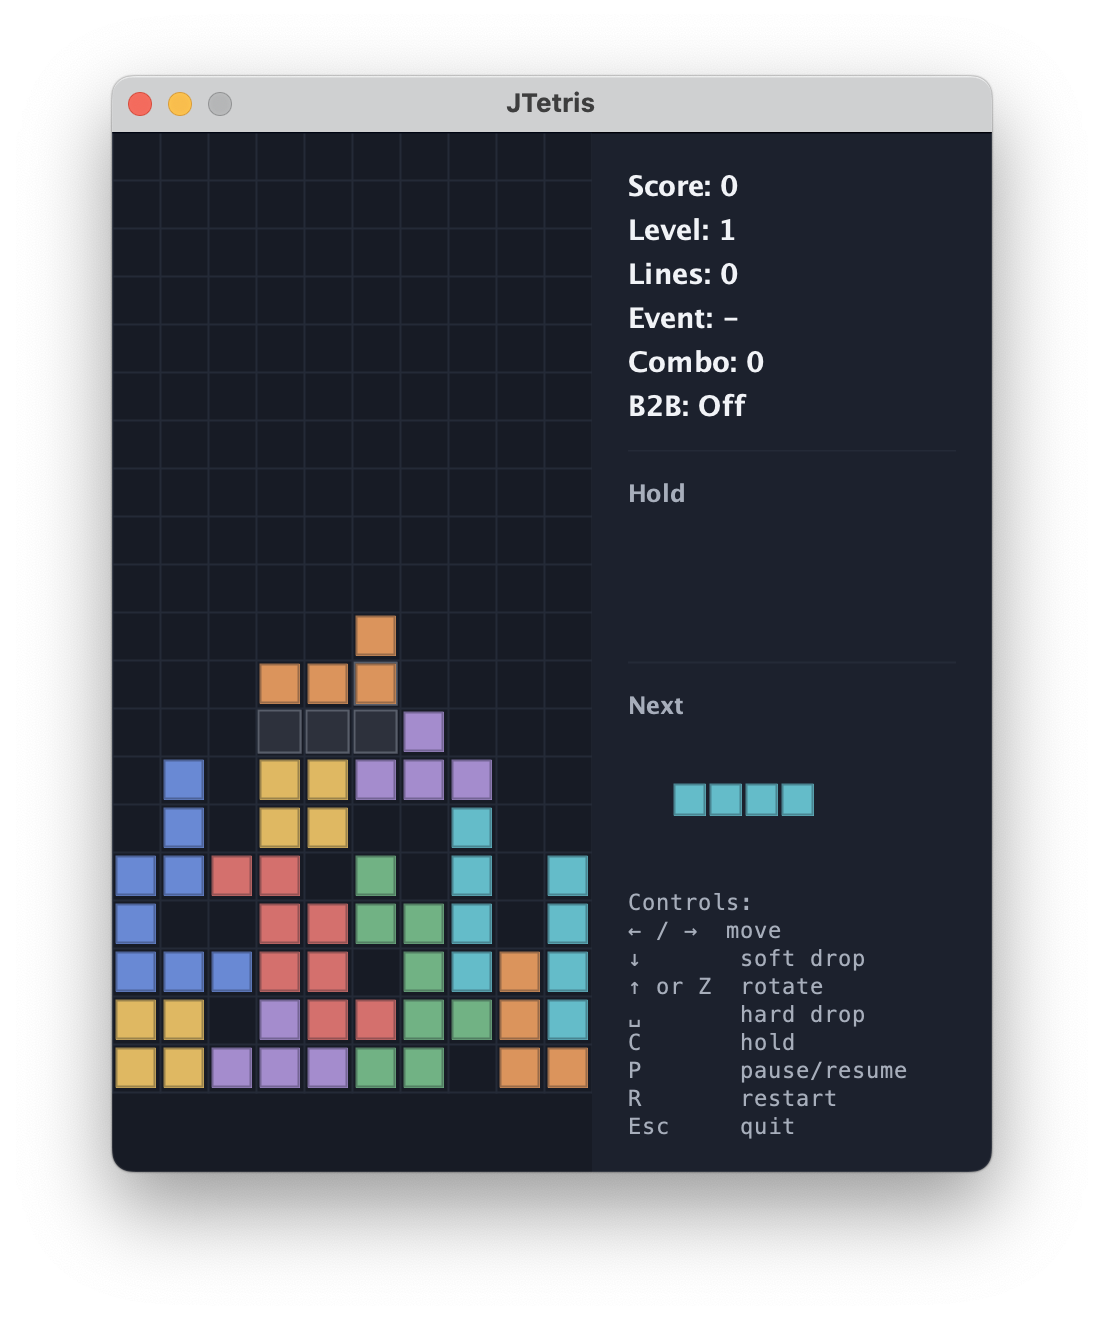
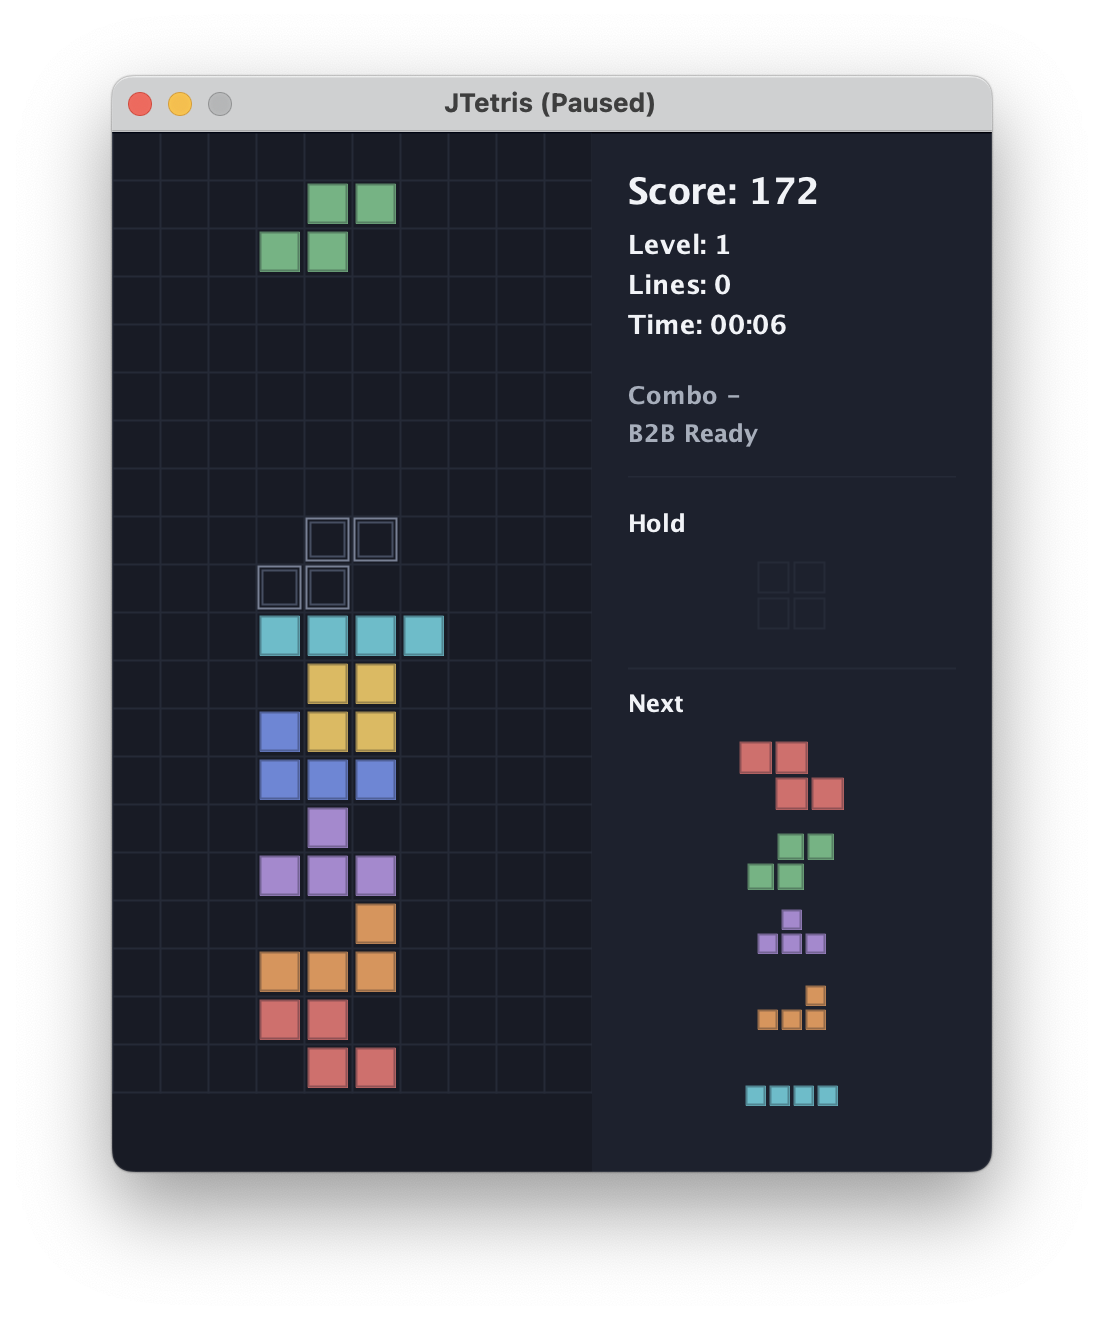
docs: refresh 1.1.0 screenshots

diff --git a/openspec/changes/release-1-1-0-ci-build/tasks.md b/openspec/changes/release-1-1-0-ci-build/tasks.md
@@ -7,7 +7,7 @@
 - [x] Update Maven release version and versioned artifact documentation to `1.1.0`.
 - [x] Start `CHANGELOG.md`.
 - [x] Double-check score and preference compatibility with focused tests.
-- [ ] Refresh README screenshots after user-provided image replacements.
+- [x] Refresh README screenshots after user-provided image replacements.
 - [x] Run documentation impact check for `README.md`, `doc/overview.md`, `doc/algorithms.md`, `doc/quality-gates.md`, and `AGENTS.md`.
 - [x] Verify with `./mvnw -Djava.awt.headless=true clean test`.
 
@@ -20,4 +20,5 @@
 - `env JAVA_HOME=/opt/homebrew/opt/openjdk@25/libexec/openjdk.jdk/Contents/Home ./mvnw spotless:check` passed on 2026-06-28: 69 Java files clean.
 - `env JAVA_HOME=/opt/homebrew/opt/openjdk@25/libexec/openjdk.jdk/Contents/Home ./mvnw checkstyle:check` passed on 2026-06-28: 0 Checkstyle violations.
 - `env JAVA_HOME=/opt/homebrew/opt/openjdk@25/libexec/openjdk.jdk/Contents/Home ./mvnw -Djava.awt.headless=true clean test` passed on 2026-06-28: 151 tests, 0 failures, 0 errors, 0 skipped.
-- Screenshot refresh remains pending user-provided replacements for `doc/images/jtetris-light.png` and `doc/images/jtetris-dark.png`.
+- Replaced `doc/images/jtetris-light.png` and `doc/images/jtetris-dark.png` with user-provided 1.1.0 screenshots on 2026-06-28.
+- Final screenshot-refresh verification: `env JAVA_HOME=/opt/homebrew/opt/openjdk@25/libexec/openjdk.jdk/Contents/Home ./mvnw -Djava.awt.headless=true clean test` passed on 2026-06-28 after replacing screenshots: 151 tests, 0 failures, 0 errors, 0 skipped.
